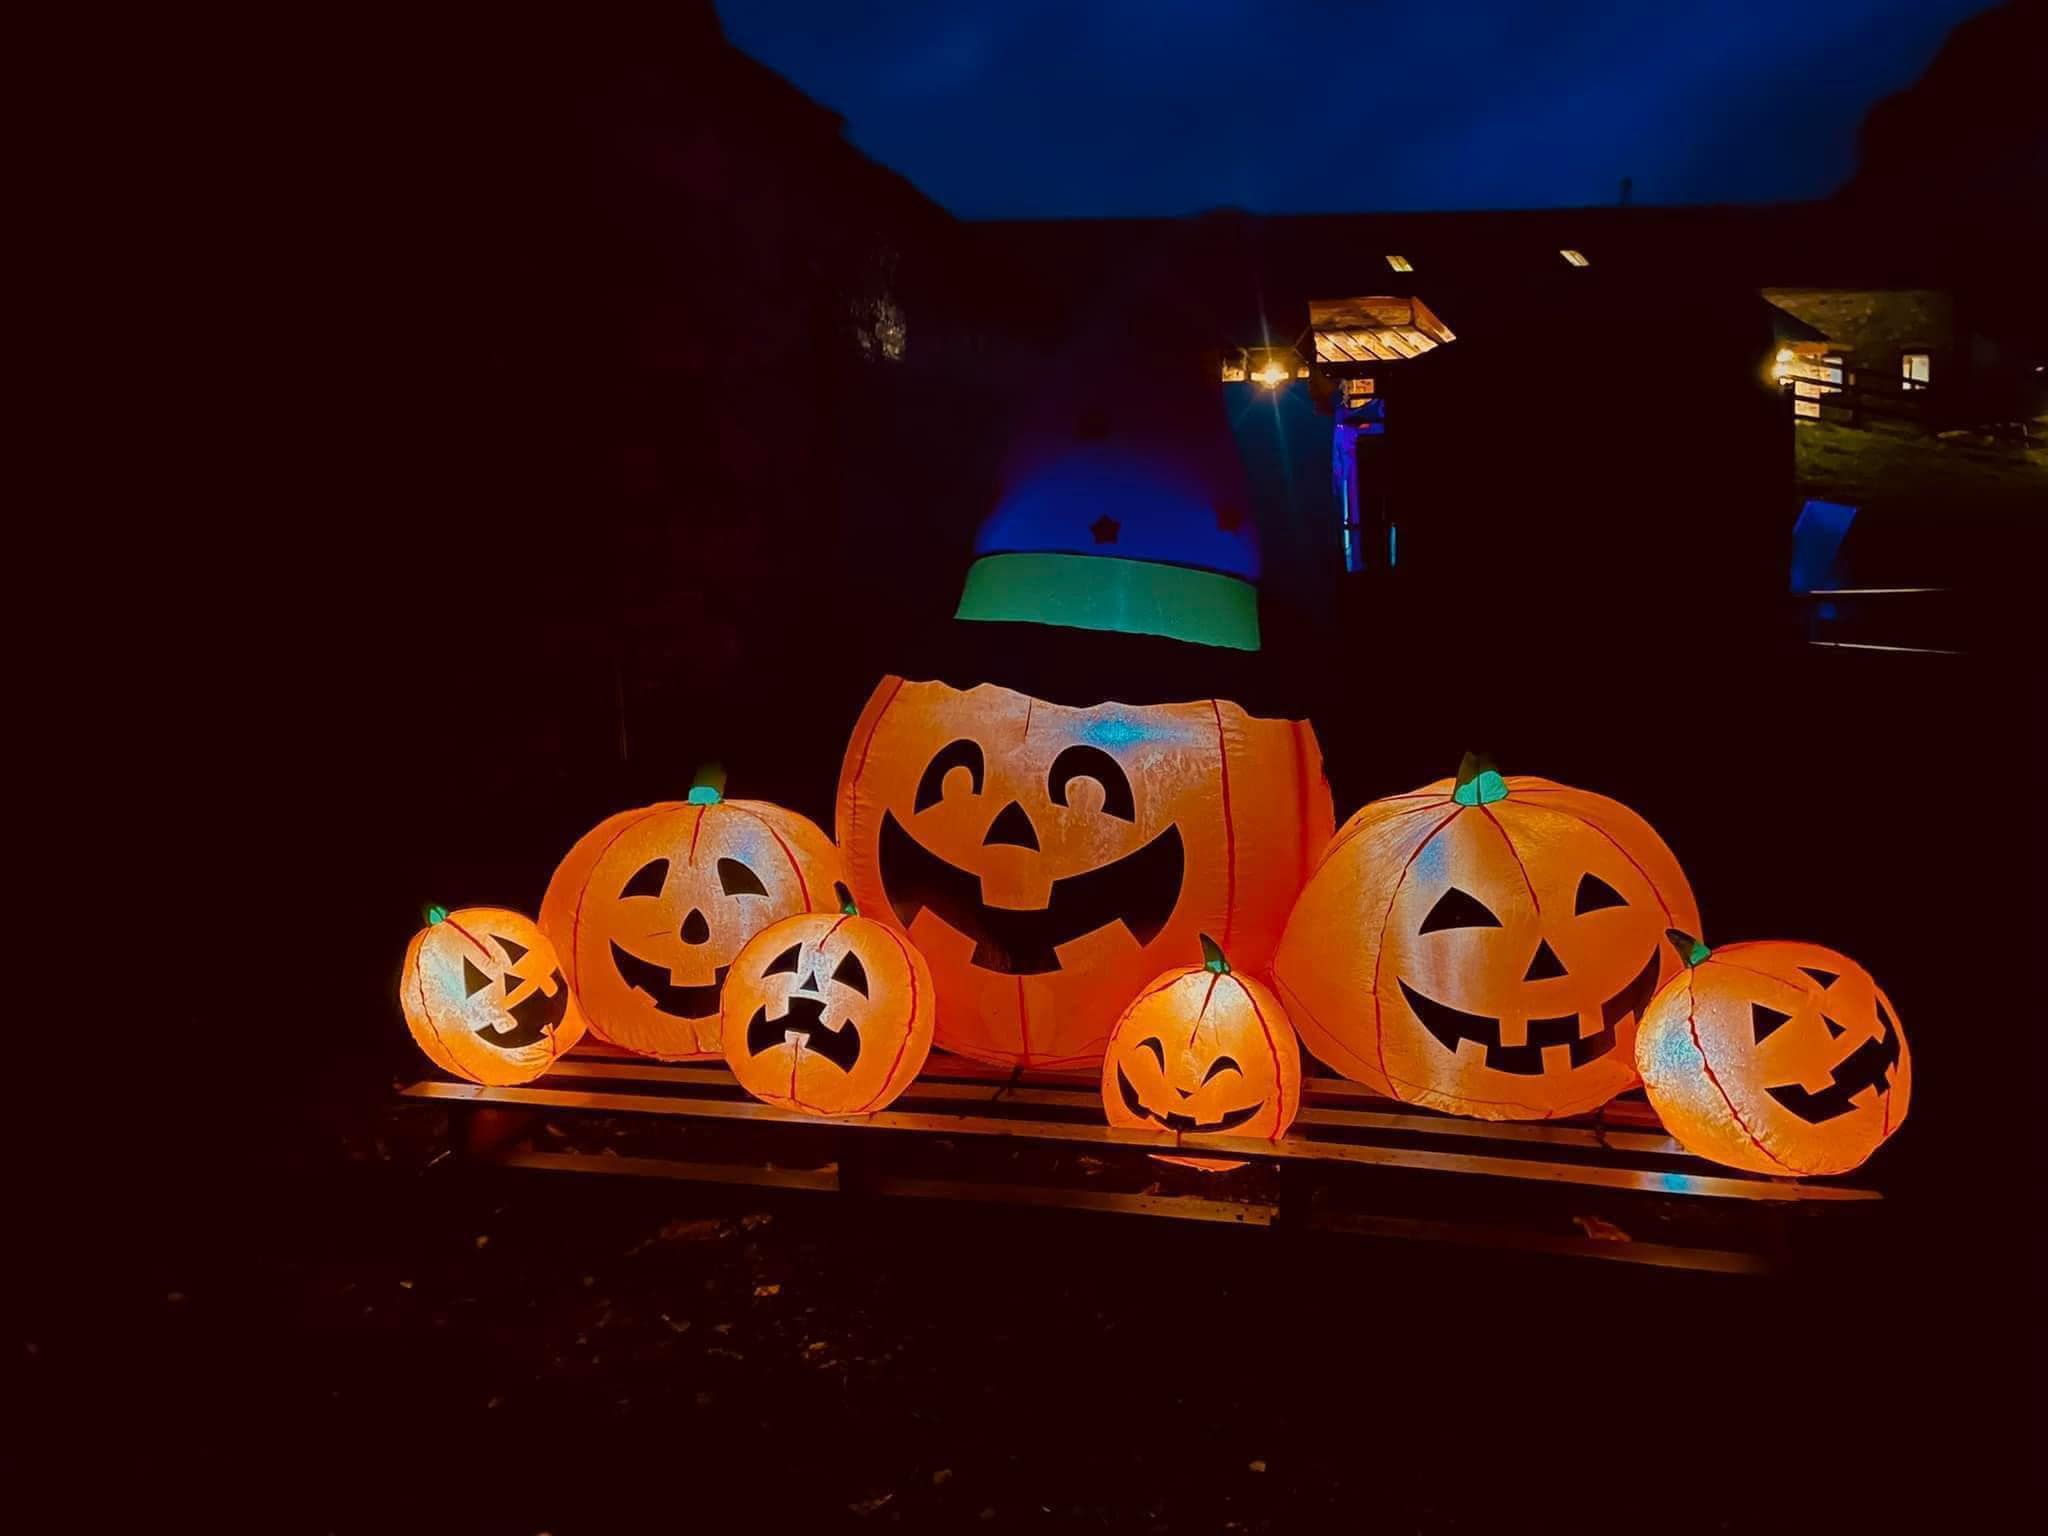
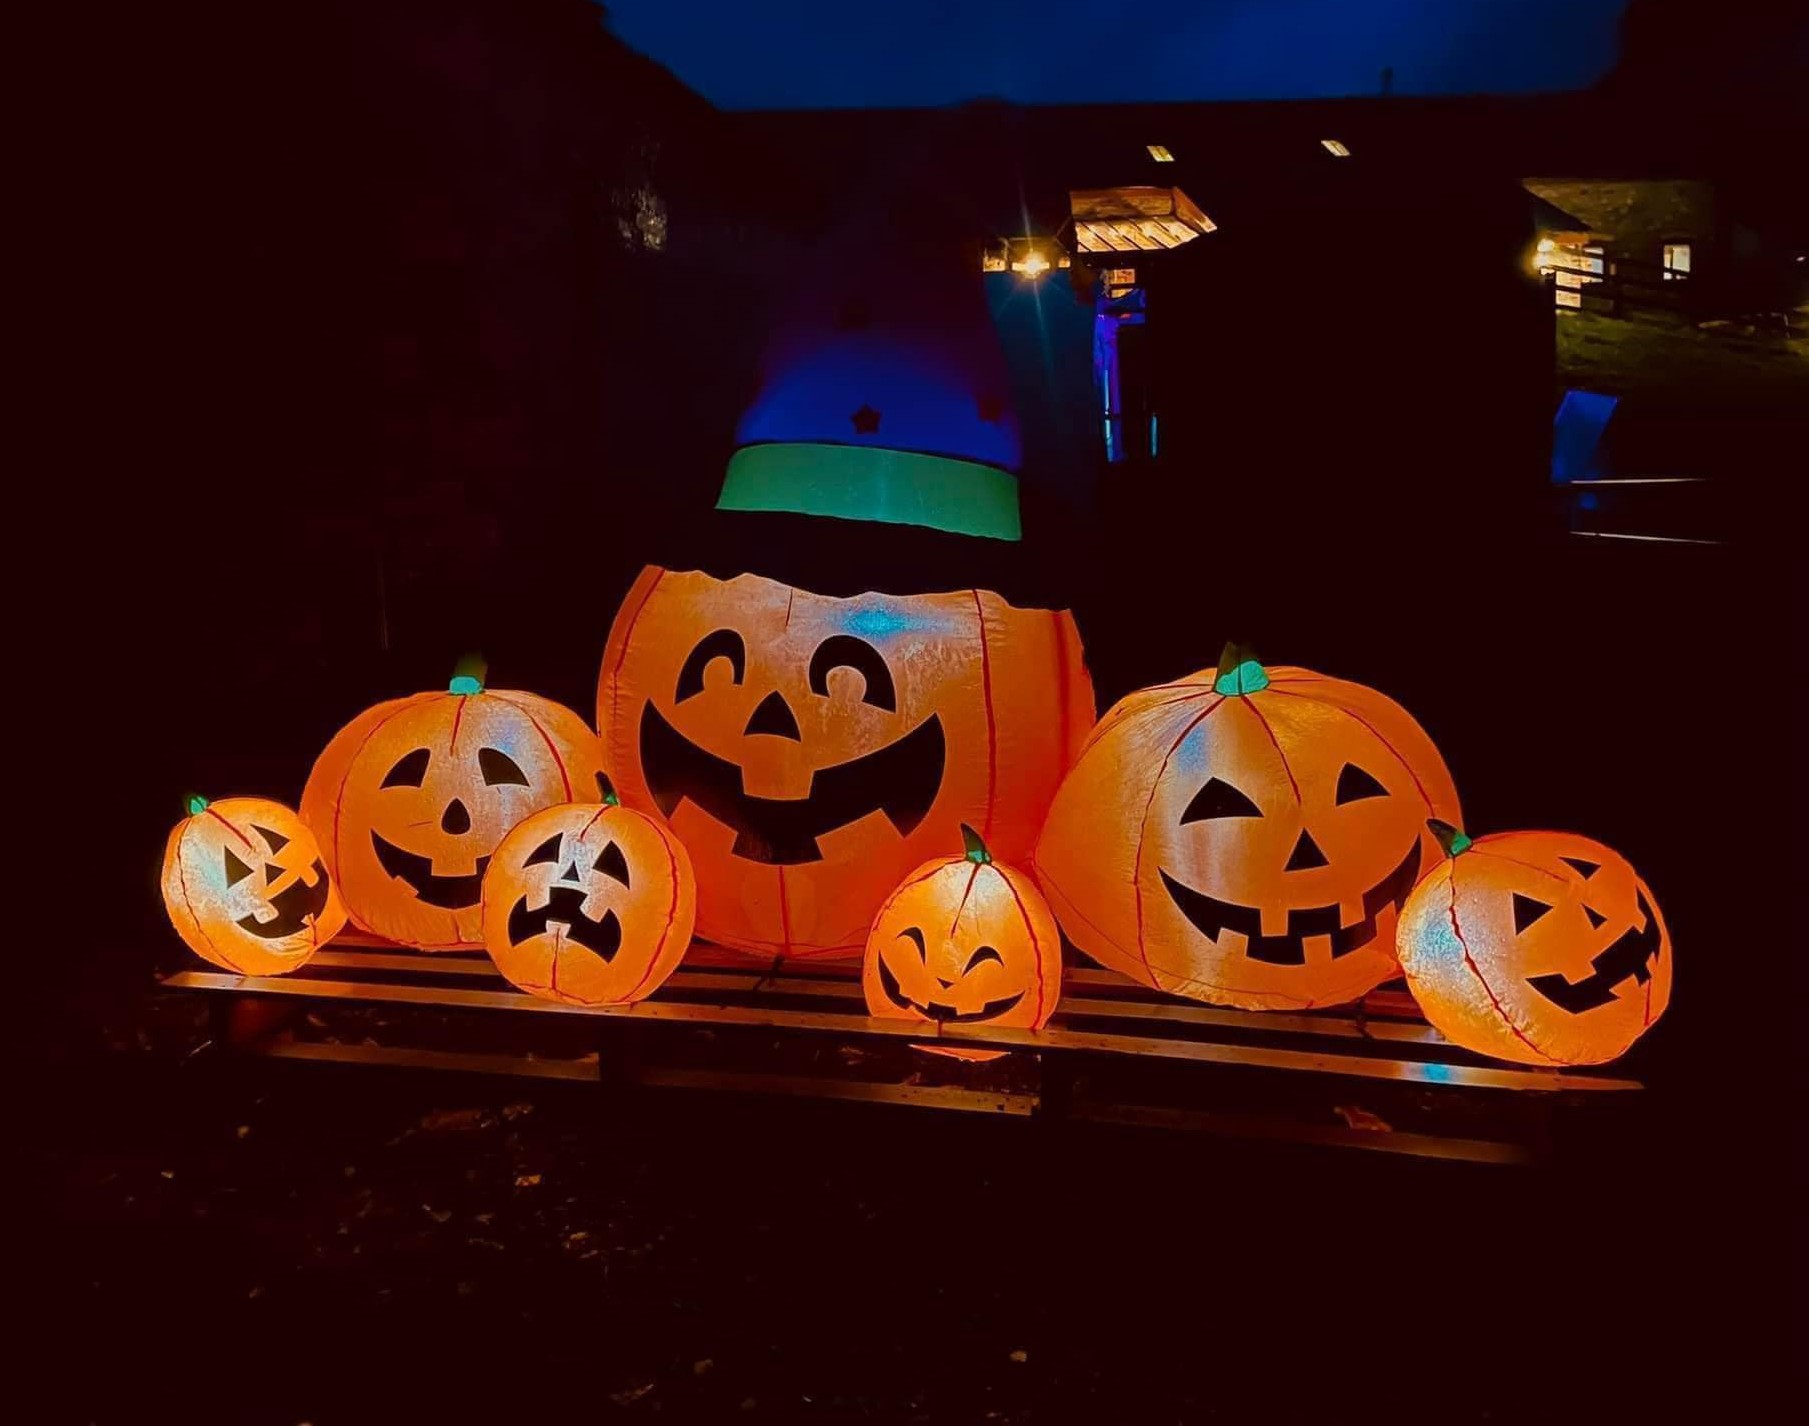
ive updated the moonlit.jpg image, can you make sure its showing the lat

diff --git a/src/app/data.ts b/src/app/data.ts
@@ -39,7 +39,7 @@ export const activities: Activity[] = [
             price: '£10.48',
             details: '1 Car Per Ticket',
             icon: Moon,
-            image: '/moonlit.jpg',
+            image: '/moonlit.jpg?v=2',
             aiHint: "pumpkin patch nighttime"
         },
     ]
